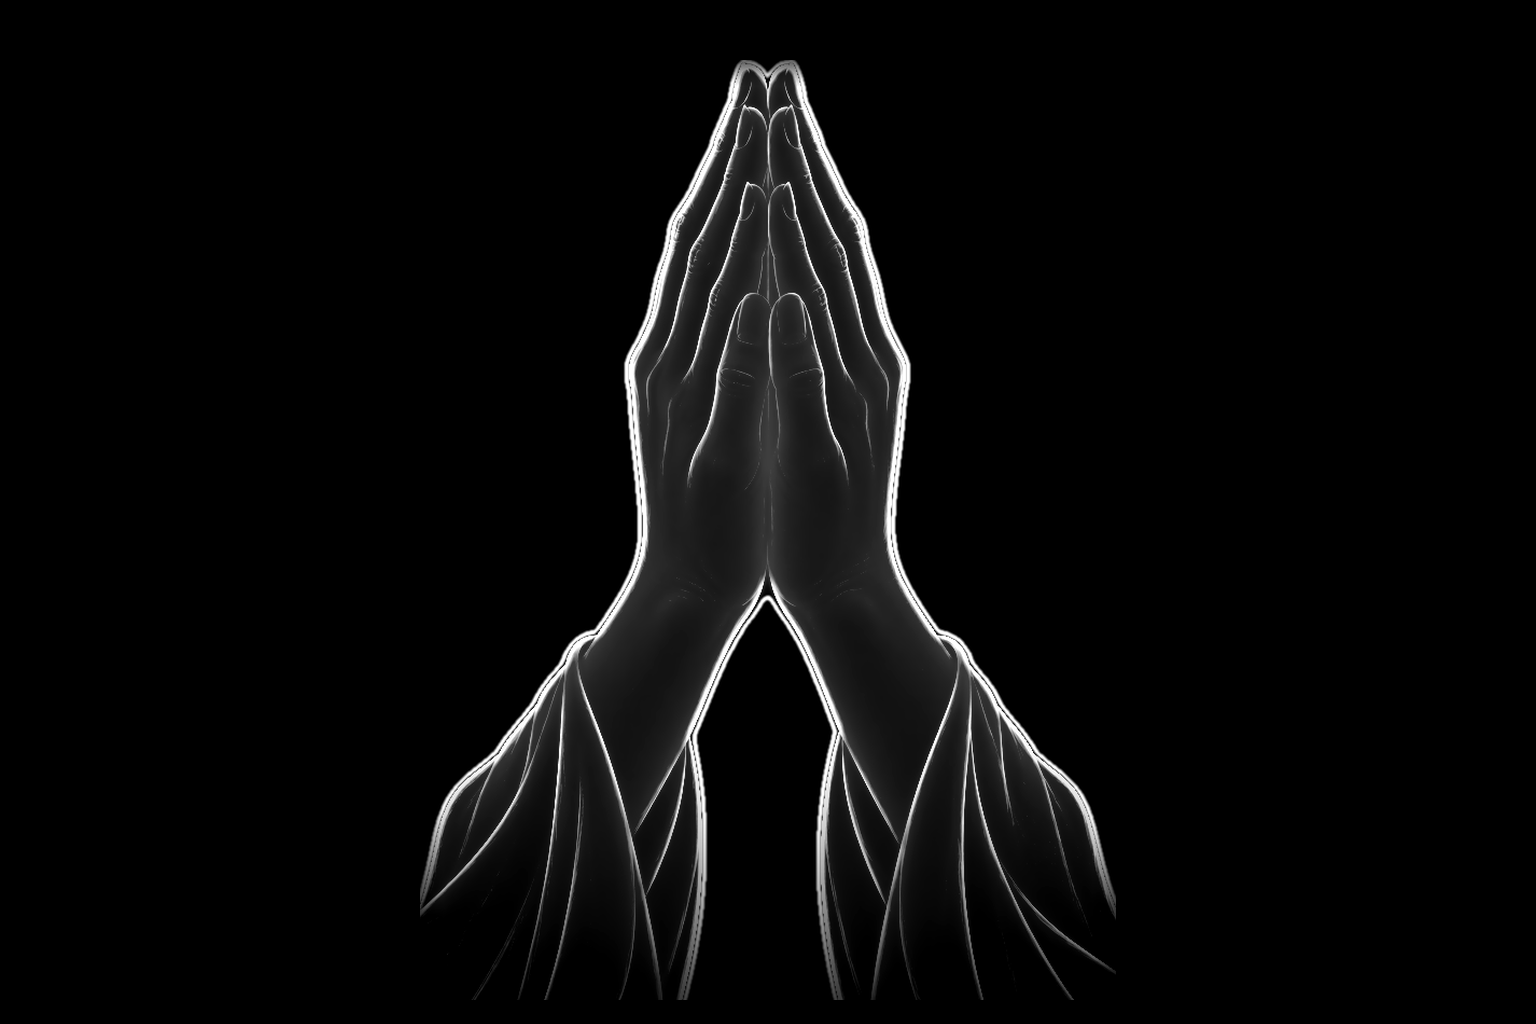
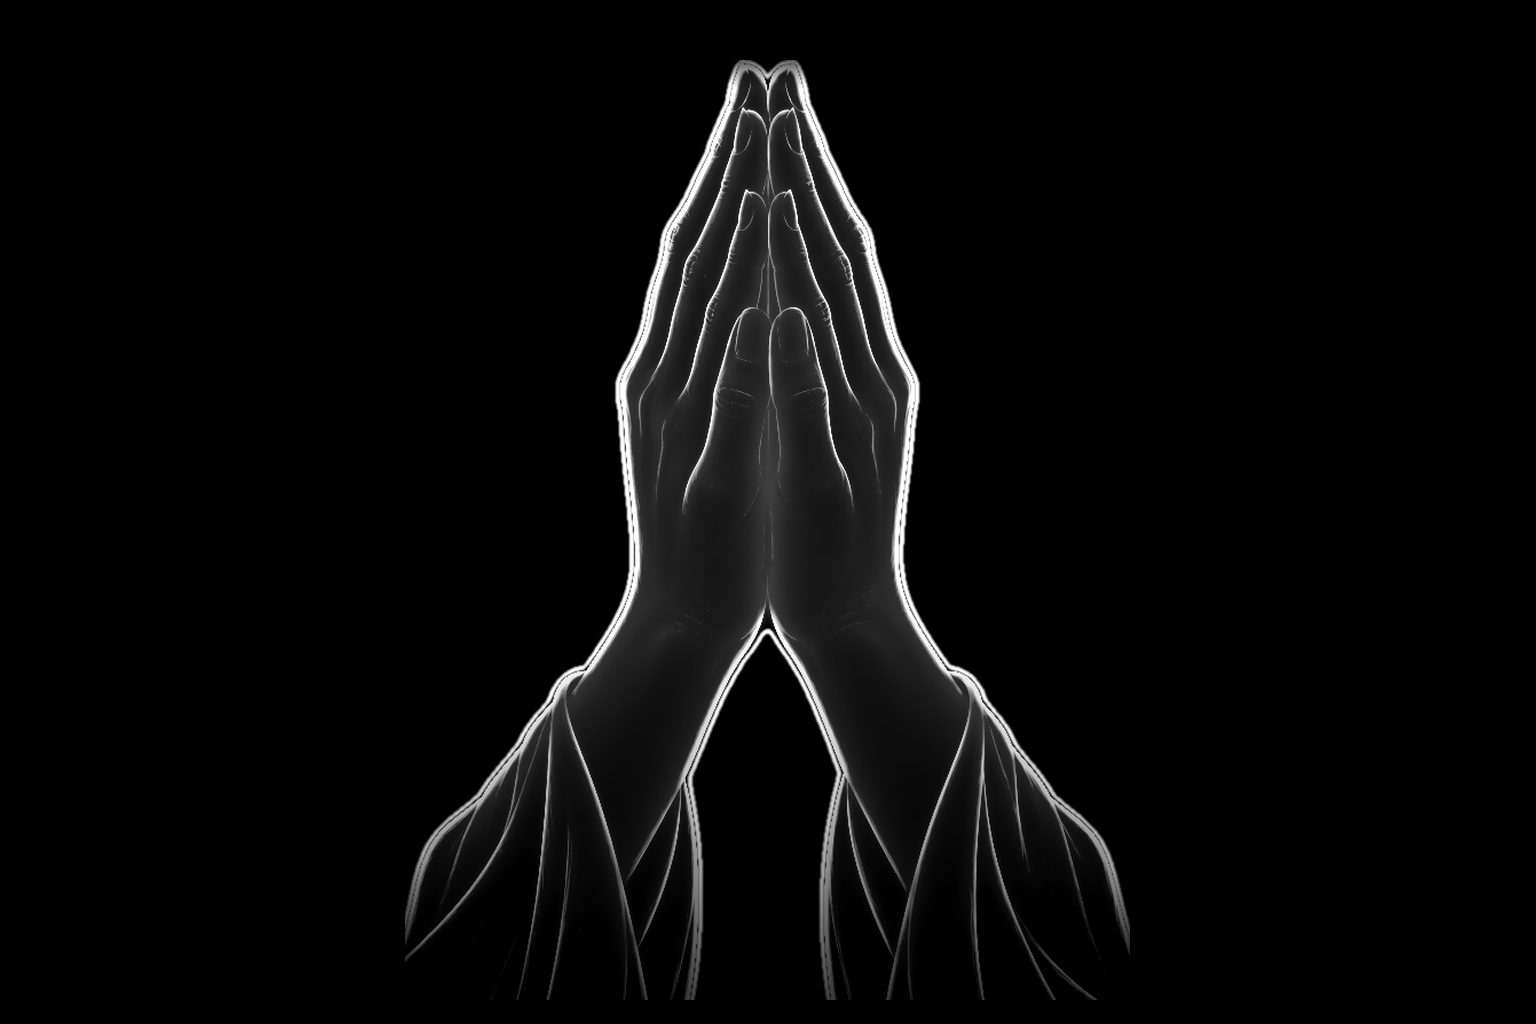
Song 03 promo v2 polish: darker lake under the children, plain fade into the moon, praying sleeves fade out
Claude-Session: https://claude.ai/code/session_01DSHsMeB7ain7qg3RYXYMEW

Changed region(s): [[0.25, 0.0625, 0.75, 0.9688]]

diff --git a/engine/songs/s03_lake_of_memory.py b/engine/songs/s03_lake_of_memory.py
@@ -209,7 +209,7 @@ TEXT_SHADOW = Track([(0, 1.1), (44.0, 1.2), (48.0, 1.1), (TOTAL, 1.1)])   # deep
 SCENES = [
     dict(image="assets/plates/s03/frozen_rain_lanterns.jpg", t0=0.0, t1=10.5, fade_in=1.0, fade_out=2.5,
          zoom=(1.12, 1.05), pan=((-0.02, 0.0), (0.0, 0.0)), water=True, water_line=0.25, gain=0.95,
-         water_strength=0.5, calm_gain=0.4),
+         water_strength=0.5, calm_gain=0.25),
     dict(image="assets/plates/s03/aurora_hands_night.jpg", t0=8.0, t1=23.5, fade_in=2.5, fade_out=3.0,
          transition="dissolve", zoom=(1.03, 1.14), pan=((0.0, 0.0), (0.0, 0.02)), water=True, water_line=0.31,
          gain=Track([(0, 1.0), (10.0, 0.88), (17.5, 0.88), (20.0, 1.0)])),
@@ -218,8 +218,8 @@ SCENES = [
          calm_gain=0.4,
          gain=Track([(0, 1.0), (25.0, 1.0), (27.0, 0.85), (38.0, 0.85), (40.0, 1.0)])),
     dict(image="assets/plates/s03/mended_moon_predawn.jpg", t0=39.0, t1=49.5, fade_in=2.5, fade_out=2.5,
-         transition="dissolve", zoom=(1.04, 1.10), pan=((0.0, -0.02), (0.0, 0.0)),
-         water=True, water_line=0.34, water_strength=0.5, calm_gain=0.4, gain=Track([(0, 1.0), (40.0, 0.90), (46.0, 0.90), (48.0, 1.0)])),
+         transition="fade", zoom=(1.04, 1.10), pan=((0.0, -0.02), (0.0, 0.0)),
+         water=True, water_line=0.34, water_strength=0.5, calm_gain=0.25, gain=Track([(0, 1.0), (40.0, 0.90), (46.0, 0.90), (48.0, 1.0)])),
     dict(image="assets/plates/s03/rose_dawn.jpg", t0=47.0, t1=61.0, fade_in=2.5, fade_out=0.0,
          transition="fade", zoom=(1.10, 1.03), water=True, water_line=0.255,
          gain=Track([(0, 1.0), (48.0, 0.92), (50.5, 0.64), (TOTAL, 0.64)])),
